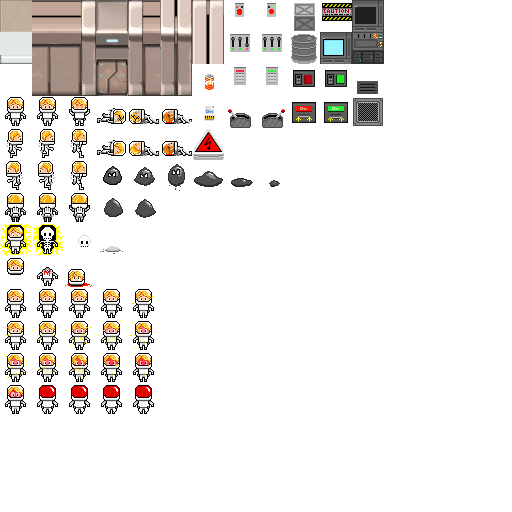
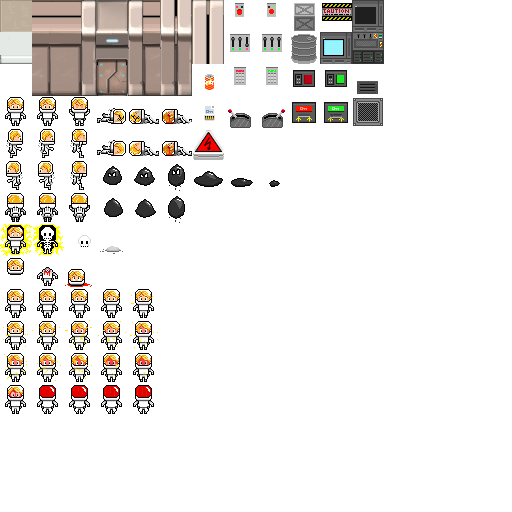
moonen animation

Changed region(s): [[0.1875, 0.3125, 0.5, 0.4375], [0.5312, 0.3438, 0.5625, 0.375]]

diff --git a/src/Objects/Moonen.js b/src/Objects/Moonen.js
@@ -14,12 +14,13 @@ mod({
         'moon::View/Filters.js',
         'moon::Events/Action.js',
         'moon::Events/ActionsThatMoveActors.js',
-        'moon::View/MoonenMinor.js'
+        'moon::View/MoonenView.js',
+        'bang::Utils/Ease.js'
     ],
     /** * *
     * Initializes the Moonen constructor.
     * * **/
-    init : function initMoonenConstructor(Actor, Rectangle, Filters, Action, MoveActions) {
+    init : function initMoonenConstructor(Actor, Rectangle, Filters, Action, MoveActions, MoonenView, Ease) {
         /** * *
         * Constructs new Moonens.
         * @constructor
@@ -76,6 +77,8 @@ mod({
             }
             this.iconView.reactor.addAction('onSpriteSheetLoad', colorizeAction(this.iconView));
             this.view.reactor.addAction('onSpriteSheetLoad', colorizeAction(this.view));
+
+            this.view.lastFrame = 1;
         }
 
         Moonen.prototype = new Actor();
@@ -94,12 +97,12 @@ mod({
         * 
         * @returns {MoonenMinor} view 
         * * **/
-        //Moonen.prototype.__defineGetter__('view', function Moonen_getview() {
-        //    if (!this._view) {
-        //        this._view = new MoonenMinor();
-        //    }
-        //    return this._view;
-        //});
+        Moonen.prototype.__defineGetter__('view', function Moonen_getview() {
+            if (!this._view) {
+                this._view = new MoonenView();
+            }
+            return this._view;
+        });
         /** * *
         * Gets the turn property.
         * More...
@@ -174,6 +177,78 @@ mod({
             return this._turn;
         });
         /** * *
+        * Gets the showMoveActions property.
+        * More...
+        * @returns {Object.<String, Action>} showMoveActions 
+        * * **/
+        Moonen.prototype.__defineGetter__('showMoveActions', function Moonen_getshowMoveActions() {
+            if (!this._showMoveActions) {
+                var self = this;
+                this._showMoveActions = {
+                    left : new Action(function showLeft() {
+                        this.view.frameNdx = 1;
+                    }, self),
+                    right : new Action(function showRight() {
+                        this.view.frameNdx = 0;
+                    }, self),
+                    up : new Action(function showUp() {
+                        this.view.frameNdx = 2;
+                    }, self),
+                    down : new Action(function showDown() {
+                        this.viewframeNdx = 0;
+                    }, self),
+                    setNdx : new Action(function setNdxFromTo_Astro(from, to, doesNotEndTurn) {
+                        // Animate the movement...
+                        this.steps.push(to);
+                        this.level.actorMap[from] = false;
+                        this.level.actorMap[to] = this;
+                        
+                        var previousFrame = this.view.frameNdx;
+                        switch (previousFrame) {
+                            case 0:
+                            case 1:
+                                this.view.frameNdx = 4;
+                            break;
+                            default:
+                                this.view.frameNdx = 5;
+                            break;
+                        }
+                        var nextPos = this.level.positionOfActorWithIndex(to);
+                        var self = this;
+                        var xmove = new Ease({
+                            target : self.view,
+                            duration : 200, 
+                            properties : {
+                                x : nextPos[0]
+                            },
+                            onComplete : function setNdxFromTo_AstroCB() {
+                                if (!doesNotEndTurn) {
+                                    self.level.turnOver();
+                                }
+                            }
+                        }).interpolate();
+                        var ymove = new Ease({
+                            target : self.view,
+                            duration : 100,
+                            equation : Ease.easeOutExpo,
+                            properties : {
+                                y : nextPos[1]-32
+                            },
+                            onComplete : function (ease) {
+                                ease.config.properties.y = nextPos[1];
+                                ease.config.equation = Ease.easeInExpo,
+                                ease.config.onComplete = function () {
+                                    self.view.frameNdx = previousFrame;
+                                };
+                                ease.interpolate();
+                            }
+                        }).interpolate();
+                    }, self),
+                };
+            }
+            return this._showMoveActions;
+        });
+        /** * *
         * Gets the interact property.
         * 
         * @returns {Action} interact 
@@ -200,15 +275,22 @@ mod({
                         var msg = actor.color+' '+actor.name+' jumped into and ate a '+this.color+' '+this.name;
                         if (this.pixelColor.isEqualTo(actor.pixelColor)) {
                             log(msg+'<br>&nbsp;and they both died!!!');
+                            var actorNdx = this.level.actorMap.indexOf(actor); 
+                            var selfNdx = this.level.actorMap.indexOf(this);
                             this.level.removeActor(this);
                             this.level.removeActor(actor);
-                            this.view.parent.removeView(this.view);
-                            actor.view.parent.removeView(actor.view);
+                            var self = this;
+                            actor.react('setNdx', actorNdx, selfNdx, true);
+                            setTimeout(function() {
+                                self.view.die();
+                                actor.view.die();
+                            }, 200);
                         } else {
                             var r = (this.pixelColor.r + actor.pixelColor.r)%256;
                             var g = (this.pixelColor.g + actor.pixelColor.g)%256;
                             var b = (this.pixelColor.b + actor.pixelColor.b)%256;
                             var color = new Filters.Pixel(r,g,b,255);
+                            console.log(color);
                             var actorNdx = this.level.actorMap.indexOf(actor); 
                             var selfNdx = this.level.actorMap.indexOf(this);
                             var turnNdx = this.level.actorsWithATurn.indexOf(this);
@@ -254,10 +336,13 @@ mod({
             if (!this._reactor) {
                 this._reactor = new Reactor();
 
-                var moveActions = new MoveActions(this);
-                this._reactor.addActionBundle(moveActions);
+                this._reactor.addActionBundle(this.showMoveActions);
                 this._reactor.addAction('turn', this.turn);
                 this._reactor.addAction('interact', this.interact);
+
+                var moveActions = new MoveActions(this);
+                delete moveActions['setNdx'];
+                this._reactor.addActionBundle(moveActions);
             }
             return this._reactor;
         });

diff --git a/src/View/Sprite.js b/src/View/Sprite.js
@@ -112,6 +112,26 @@ mod({
             * @type {boolean}
             * * **/
             this.isVisible = true;
+            /** * *
+            * The start frame of the animation.
+            * @type {number}
+            * * **/
+            this.firstFrame = 0;
+            /** * *
+            * The end frame of the animation.
+            * @type {number}
+            * * **/
+            this.lastFrame = 0;
+            /** * *
+            * The number of frames to play before calling onComplete.
+            * @type {number}
+            * * **/
+            this.framesToPlay = 0;
+            /** * *
+            * The function to run when the number of frames has been reached.
+            * @type {function}
+            * * **/
+            this.onComplete = false;
         }  
 
         Sprite.prototype = new View();
@@ -156,6 +176,9 @@ mod({
         * * **/
         Sprite.prototype.updateContextWithCurrentFrame = function Sprite_updateContextWithCurrentFrame() {
             var ndx = Math.floor(this.frameNdx);
+            if (this.lastFrame && (this.firstFrame < this.lastFrame)) {
+                ndx += this.firstFrame;
+            }
             var frame = this.frames[ndx];
             var sx = frame.left();
             var sy = frame.top();
@@ -165,6 +188,8 @@ mod({
             var dh = this.height;
             this.context.clearRect(0, 0, dw, dh);
             this.context.drawImage(this.sheet, sx, sy, sw, sh, 0, 0, dw, dh);
+            
+            
         };
         /** * *
         * Returns the number of milliseconds per frame.
@@ -192,8 +217,12 @@ mod({
             if (this.isPlaying) {
                 var framesElapsed = this.numberOfFramesSince(this.lastFrameTimeStamp);
                 var nextFrame = framesElapsed + this.frameNdx;
-                if (nextFrame >= this.frames.length) {
-                    nextFrame = nextFrame % this.frames.length;
+                var width = this.frames.length;
+                if (this.lastFrame && (this.firstFrame < this.lastFrame)) {
+                    width = this.lastFrame - this.firstFrame + 1;
+                }
+                if (nextFrame >= width) {
+                    nextFrame = nextFrame % width; 
                 }
 
                 var floorNdx = Math.floor(this.frameNdx);
@@ -206,6 +235,12 @@ mod({
                 // Play the frame functions...
                 for (var funcName in this.frameFunctions[ndx]) {
                     this.frameFunctions[ndx][funcName]();            
+                }
+                if (this.framesToPlay > 0) {
+                    this.framesToPlay -= framesElapsed;
+                    if (this.framesToPlay <= 0 && this.onComplete) {
+                        this.onComplete();
+                    }
                 }
             }
         };

diff --git a/src/View/MoonenView.js b/src/View/MoonenView.js
@@ -1,0 +1,63 @@
+/** * * * * * * * * * * * * * * * * * * * * * * * * * * * * * * * * * * * * *
+* MoonenView.js
+* A view for the moonen.
+* Copyright (c) 12 Schell Scivally. All rights reserved.
+* 
+* @author   Schell Scivally 
+* @since    Sat Dec  1 10:44:21 2012  
+* * * * * * * * * * * * * * * * * * * * * * * * * * * * * * * * * * * * * **/
+mod({
+    name : 'MoonenView',
+    dependencies : [ 
+        'moon::View/Sprite.js',
+        'bang::Geometry/Rectangle.js'
+    ],
+    /** * *
+    * Initializes the MoonenView constructor.
+    * * **/
+    init : function initMoonenViewConstructor(Sprite, Rectangle) {
+    /** * *
+    * Constructs new MoonenViews.
+    * @constructor
+    * @nosideeffects
+    * @return {MoonenView}
+    * * **/ 
+    function MoonenView() {
+        Sprite.call(this,0,0,32,32,'img/tiles.png',[
+            new Rectangle(3*32,5*32,32,32), // 0 - front tall
+            new Rectangle(4*32,5*32,32,32), // 1 - front squat
+            new Rectangle(3*32,6*32,32,32), // 2 - back tall
+            new Rectangle(4*32,6*32,32,32), // 3 - back squat
+            new Rectangle(5*32,5*32,32,32), // 4 - jump forward
+            new Rectangle(5*32,6*32,32,32), // 5 - jump back
+            new Rectangle(6*32,5*32,32,32), // 6 - die 1
+            new Rectangle(7*32,5*32,32,32), // 7 - die 2
+            new Rectangle(8*32,5*32,32,32), // 8 - die 3
+        ]);
+    }
+
+    MoonenView.prototype = new Sprite(); 
+    MoonenView.prototype.constructor = MoonenView;
+    //-----------------------------
+    //  METHODS
+    //-----------------------------
+    /** * *
+    * Kills and removes tho moonen view.
+    * * **/
+    MoonenView.prototype.die = function MoonenView_die() {
+        this.framesPerSecond = 2;
+        this.firstFrame = 6;
+        this.lastFrame = 8;
+        this.framesToPlay = 3;
+        this.isPlaying = true;
+        this.onComplete = function () {
+            if (this.parent && this.parent.displayList.indexOf(this) !== -1) {
+                this.parent.removeView(this);
+                this.isPlaying = false;
+                this.onComplete = false;
+            }
+        };
+    };
+    return MoonenView;
+    }
+});    

diff --git a/index.html b/index.html
@@ -31,7 +31,7 @@
                             'levels/7.png',
                             'levels/alcove.png',
                             'levels/easytarget.png',
-                            'levels/fourchambers.png',
+                            'levels/clusterfuc.png',
                             'levels/blockade.png'
                         ]);
                         moonening.init();
